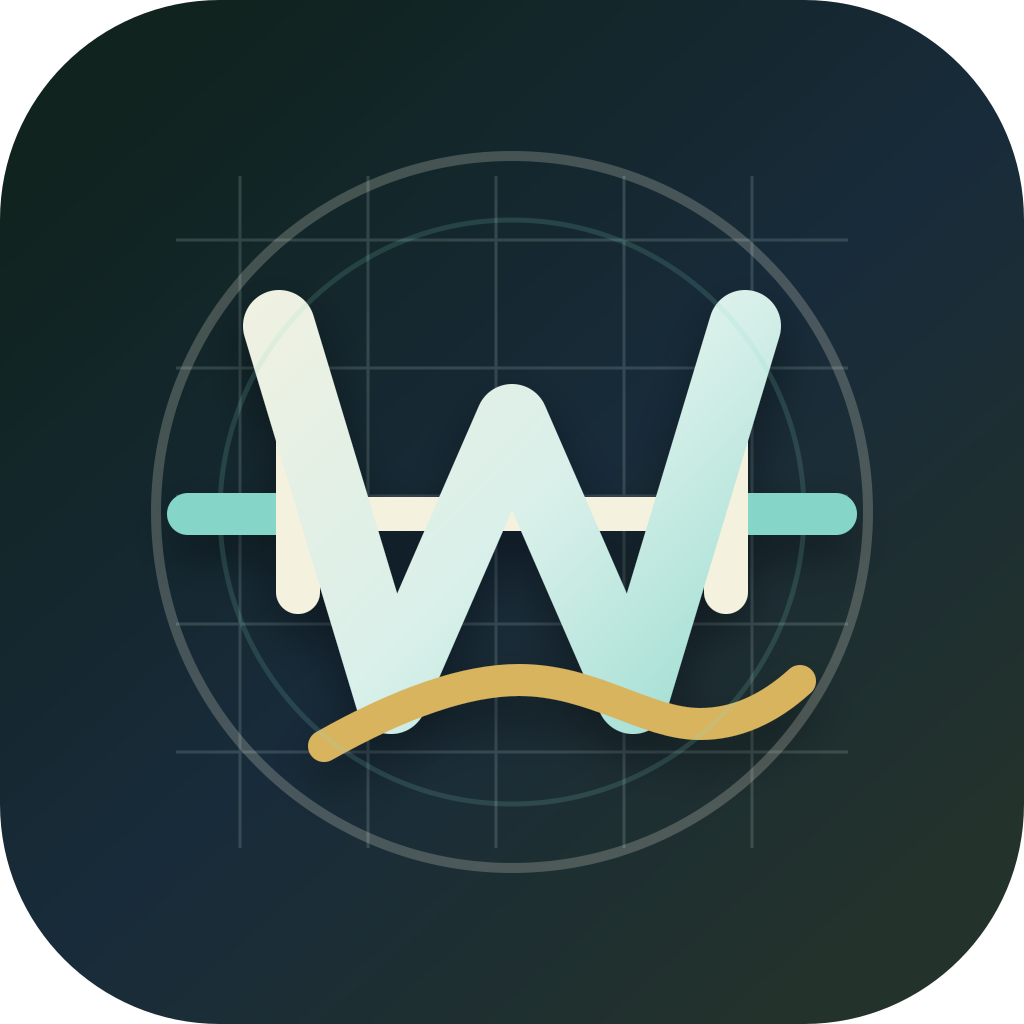
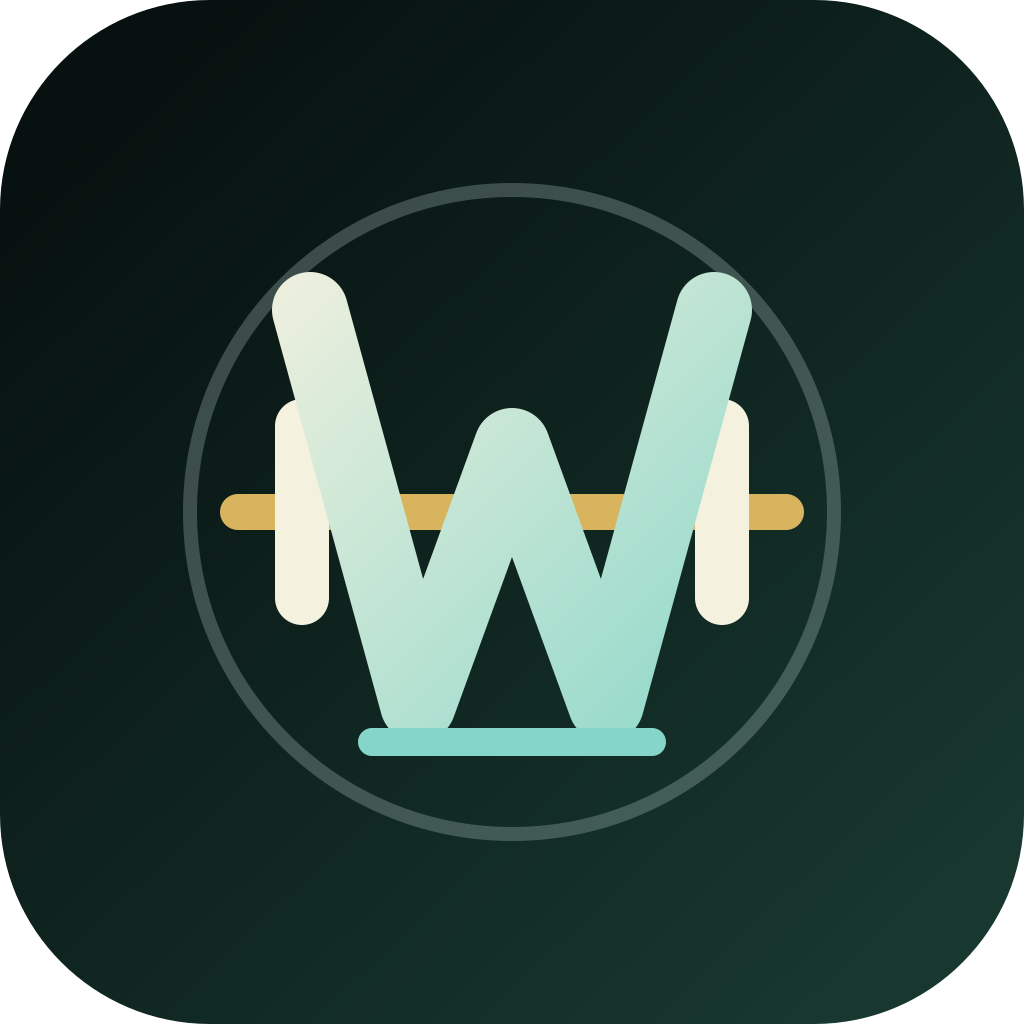
fix: anchor program week to current monday

diff --git a/src/App.tsx b/src/App.tsx
@@ -82,6 +82,7 @@ import {
   type ActiveExerciseReplacement,
   type ExerciseReplacementInput,
 } from './db/modificationQueries';
+import { getActiveProgramYearStart } from './db/programSeedRows';
 import { getAppSettings, saveAppSettings } from './db/settingsQueries';
 import {
   buildExportFiles,
@@ -124,6 +125,7 @@ import { programSeed } from './data/programSeed';
 import {
   createTrainingYear,
   formatProgramPosition,
+  getProgramWeekStart,
   getProgramPosition,
   type ProgramPosition,
 } from './domain/program/yearEngine';
@@ -290,15 +292,16 @@ export default function App() {
   const [scheduledNotifications, setScheduledNotifications] = useState<
     ScheduledNotificationItem[]
   >([]);
+  const [programStartDate, setProgramStartDate] = useState(() =>
+    getProgramWeekStart(new Date()),
+  );
   const [dbStatus, setDbStatus] = useState('Opening local database');
   const [setupRestoreJson, setSetupRestoreJson] = useState('');
   const [setupStatus, setSetupStatus] = useState('Program setup not completed');
   const trainingYear = useMemo(() => {
-    const now = new Date();
-    return createTrainingYear(
-      new Date(Date.UTC(now.getUTCFullYear(), 0, 1)),
-    );
-  }, []);
+    return createTrainingYear(programStartDate);
+  }, [programStartDate]);
+  styles = getStyles(appSettings.theme);
   const position = useMemo(
     () => getProgramPosition(new Date(), trainingYear),
     [trainingYear],
@@ -313,6 +316,7 @@ export default function App() {
     position.status === 'in_year' ? position.week.weekType : position.status;
   const refreshLocalData = async (database: TrainingDatabase) => {
     await markOverdueWorkoutsMissed(database);
+    setProgramStartDate(await getActiveProgramYearStart(database));
     setTodayInstance(await getTodayWorkoutInstance(database));
     setNextWorkoutInstance(await getNextWorkoutInstance(database));
     setLastCompletedWorkout(await getLastCompletedWorkout(database));
@@ -377,7 +381,7 @@ export default function App() {
   if (!appSettings.setupCompleted) {
     return (
       <SafeAreaView style={styles.safeArea}>
-        <StatusBar style="dark" />
+        <StatusBar style={appSettings.theme === 'scholar_dark' ? 'light' : 'dark'} />
         <View style={styles.shell}>
           <View style={styles.header}>
             <Text style={styles.appName}>Wali's Workout</Text>
@@ -447,7 +451,7 @@ export default function App() {
 
   return (
     <SafeAreaView style={styles.safeArea}>
-      <StatusBar style="dark" />
+      <StatusBar style={appSettings.theme === 'scholar_dark' ? 'light' : 'dark'} />
       <View style={styles.shell}>
         <View style={styles.header}>
           <Text style={styles.appName}>Wali's Workout</Text>
@@ -2784,9 +2788,24 @@ function LibrarySummary({
         <Text style={styles.setPrescription}>
           Calendar: {formatCalendarMode(appSettings.calendarMode)} - rest sound:{' '}
           {appSettings.restAlertSound ? 'on' : 'off'} - rest vibration:{' '}
-          {appSettings.restAlertVibration ? 'on' : 'off'}
+          {appSettings.restAlertVibration ? 'on' : 'off'} - theme:{' '}
+          {appSettings.theme === 'scholar_dark' ? 'dark' : 'light'}
         </Text>
         <View style={styles.actionRow}>
+          <Pressable
+            accessibilityRole="button"
+            onPress={() =>
+              void saveSettings({
+                theme:
+                  appSettings.theme === 'scholar_dark'
+                    ? 'scholar_light'
+                    : 'scholar_dark',
+              })
+            }
+            style={styles.secondaryButton}
+          >
+            <Text style={styles.secondaryButtonText}>Toggle Dark Mode</Text>
+          </Pressable>
           <Pressable
             accessibilityRole="button"
             onPress={() =>
@@ -3868,7 +3887,7 @@ function formatDuration(totalSeconds: number) {
   return `${minutes}:${String(seconds).padStart(2, '0')}`;
 }
 
-const styles = StyleSheet.create({
+const lightStyles = StyleSheet.create({
   safeArea: {
     flex: 1,
     backgroundColor: '#F8FAFC',
@@ -4304,3 +4323,79 @@ const styles = StyleSheet.create({
     marginTop: 16,
   },
 });
+
+const darkStyleOverrides = StyleSheet.create({
+  safeArea: { backgroundColor: '#07110F' },
+  shell: { backgroundColor: '#07110F' },
+  header: { backgroundColor: '#0D1B18', borderBottomColor: '#1F3A35' },
+  appName: { color: '#F5F1DF' },
+  dateText: { color: '#9CB5AD' },
+  positionCard: { backgroundColor: '#0D1B18', borderColor: '#2B4A43' },
+  meta: { color: '#85D6C8' },
+  positionTitle: { color: '#F8FAFC' },
+  eyebrow: { color: '#BCD0C8' },
+  panel: { backgroundColor: '#0D1B18', borderColor: '#1F3A35' },
+  sectionTitle: { color: '#E5EEE9' },
+  body: { color: '#BCD0C8' },
+  summaryBlock: { borderTopColor: '#1F3A35' },
+  summaryTitle: { color: '#F8FAFC' },
+  summaryText: { color: '#BCD0C8' },
+  warningText: { color: '#F0C56A' },
+  sessionPanel: { backgroundColor: '#10231F', borderColor: '#2B4A43' },
+  sessionTitle: { color: '#F8FAFC' },
+  baselineInput: {
+    backgroundColor: '#07110F',
+    borderColor: '#2B4A43',
+    color: '#F8FAFC',
+  },
+  noteInput: {
+    backgroundColor: '#07110F',
+    borderColor: '#2B4A43',
+    color: '#F8FAFC',
+  },
+  primaryButton: { backgroundColor: '#2A7C71' },
+  secondaryButton: {
+    backgroundColor: '#10231F',
+    borderColor: '#85D6C8',
+  },
+  selectedButton: { backgroundColor: '#1F3A35' },
+  secondaryButtonText: { color: '#D9F0EA' },
+  currentSetText: { color: '#BCD0C8' },
+  setRow: { borderLeftColor: '#85D6C8' },
+  setExercise: { color: '#F8FAFC' },
+  setPrescription: { color: '#9CB5AD' },
+  metric: { backgroundColor: '#0D1B18', borderColor: '#1F3A35' },
+  metricLabel: { color: '#9CB5AD' },
+  metricValue: { color: '#F8FAFC' },
+  tabBar: { backgroundColor: '#0D1B18', borderTopColor: '#1F3A35' },
+  activeTab: { borderTopColor: '#85D6C8' },
+  tabText: { color: '#9CB5AD' },
+  activeTabText: { color: '#D9F0EA' },
+  analyticsHeading: { color: '#D9F0EA' },
+  barLabel: { color: '#F8FAFC' },
+  barValue: { color: '#9CB5AD' },
+  barTrack: { backgroundColor: '#1F3A35' },
+  barFill: { backgroundColor: '#85D6C8' },
+  lineChart: { backgroundColor: '#07110F', borderColor: '#1F3A35' },
+  lineChartAxis: { backgroundColor: '#2B4A43' },
+  lineChartSegment: { backgroundColor: '#85D6C8' },
+  lineChartPoint: { backgroundColor: '#D8B45F', borderColor: '#07110F' },
+  compositionTrack: { backgroundColor: '#1F3A35' },
+  stackedTrack: { backgroundColor: '#1F3A35' },
+  plannedSegment: { backgroundColor: '#2B4A43' },
+  actualSegment: { backgroundColor: '#85D6C8' },
+  heatmapFigure: { backgroundColor: '#0D1B18', borderColor: '#2B4A43' },
+  heatmapTitle: { color: '#F8FAFC' },
+  heatmapEmpty: { color: '#9CB5AD' },
+});
+
+function getStyles(theme: AppSettings['theme']) {
+  if (theme !== 'scholar_dark') return lightStyles;
+  return new Proxy(lightStyles, {
+    get(target, key: keyof typeof lightStyles) {
+      return [target[key], darkStyleOverrides[key as keyof typeof darkStyleOverrides]];
+    },
+  }) as typeof lightStyles;
+}
+
+let styles = getStyles(defaultSettings.theme);

diff --git a/src/db/programSeedRows.ts b/src/db/programSeedRows.ts
@@ -1,4 +1,5 @@
 import { programSeed } from '../data/programSeed.ts';
+import { createTrainingYear, getProgramWeekStart } from '../domain/program/yearEngine.ts';
 import type { TrainingDatabase } from './database.ts';
 
 type ProgramSeed = typeof programSeed;
@@ -24,15 +25,87 @@ export async function ensureProgramSeeded(
 
   if ((row?.count ?? 0) > 0) return false;
 
-  const year = now.getUTCFullYear();
+  const startDate = getProgramWeekStart(now);
+  const trainingYear = createTrainingYear(startDate);
+  const year = startDate.slice(0, 4);
   await saveProgramSeedRows(db as TrainingDatabase, {
     programYearId: `training_year_${year}`,
     programName: 'Training Year',
-    startDate: `${year}-01-01`,
-    endDate: `${year}-12-31`,
+    startDate,
+    endDate: trainingYear.endDate,
     recordedAt: now.toISOString(),
   });
   return true;
+}
+
+export async function getActiveProgramYearStart(
+  db: Pick<TrainingDatabase, 'getFirstAsync'>,
+) {
+  const row = await db.getFirstAsync<{ startDate: string }>(
+    'SELECT start_date AS startDate FROM program_years WHERE is_active = 1 ORDER BY created_at DESC LIMIT 1',
+  );
+  return row?.startDate ?? getProgramWeekStart();
+}
+
+export async function realignUnusedProgramScheduleToCurrentWeek(
+  db: Pick<TrainingDatabase, 'execAsync' | 'getAllAsync' | 'getFirstAsync' | 'runAsync'>,
+  now = new Date(),
+) {
+  const desiredStartDate = getProgramWeekStart(now);
+  const currentStartDate = await getActiveProgramYearStart(db);
+  if (currentStartDate === desiredStartDate) return false;
+
+  const logCount = await db.getFirstAsync<{ count: number }>(
+    'SELECT COUNT(*) AS count FROM workout_logs',
+  );
+  if ((logCount?.count ?? 0) > 0) return false;
+
+  const rows = await db.getAllAsync<{
+    instanceId: string;
+    weekNumber: number;
+    scheduledWeekday: number;
+  }>(
+    `SELECT
+       wi.id AS instanceId,
+       pwk.week_number AS weekNumber,
+       pw.scheduled_weekday AS scheduledWeekday
+     FROM workout_instances wi
+     JOIN program_workouts pw ON pw.id = wi.program_workout_id
+     JOIN program_weeks pwk ON pwk.id = pw.program_week_id
+     WHERE pw.scheduled_weekday IS NOT NULL`,
+  );
+  const trainingYear = createTrainingYear(desiredStartDate);
+  const recordedAt = now.toISOString();
+
+  await db.execAsync('BEGIN TRANSACTION');
+  try {
+    await db.runAsync(
+      'UPDATE program_years SET start_date = ?, end_date = ?, updated_at = ? WHERE is_active = 1',
+      desiredStartDate,
+      trainingYear.endDate,
+      recordedAt,
+    );
+    for (const row of rows) {
+      await db.runAsync(
+        `UPDATE workout_instances
+         SET scheduled_date = ?,
+             actual_date = NULL,
+             status = 'scheduled',
+             was_shifted = 0,
+             shift_reason = NULL,
+             updated_at = ?
+         WHERE id = ?`,
+        addDays(desiredStartDate, (row.weekNumber - 1) * 7 + row.scheduledWeekday - 1),
+        recordedAt,
+        row.instanceId,
+      );
+    }
+    await db.execAsync('COMMIT');
+    return true;
+  } catch (error) {
+    await db.execAsync('ROLLBACK');
+    throw error;
+  }
 }
 
 export async function saveProgramSeedRows(

diff --git a/src/domain/program/yearEngine.ts b/src/domain/program/yearEngine.ts
@@ -39,6 +39,12 @@ export function createTrainingYear(startDate: Date | string): TrainingYear {
   };
 }
 
+export function getProgramWeekStart(date: Date | string = new Date()) {
+  const target = toUtcDateOnly(date);
+  const daysSinceMonday = (target.getUTCDay() + 6) % daysPerWeek;
+  return toIsoDate(addDays(target, -daysSinceMonday));
+}
+
 export function getProgramPosition(
   date: Date | string,
   trainingYear: TrainingYear,
@@ -82,9 +88,16 @@ export function formatProgramPosition(position: ProgramPosition) {
 }
 
 function toUtcDateOnly(date: Date | string) {
-  const value = typeof date === 'string' ? new Date(`${date}T00:00:00Z`) : date;
+  if (typeof date === 'string') {
+    const value = new Date(`${date.slice(0, 10)}T00:00:00Z`);
+    return new Date(
+      Date.UTC(value.getUTCFullYear(), value.getUTCMonth(), value.getUTCDate()),
+    );
+  }
+
+  const value = date;
   return new Date(
-    Date.UTC(value.getUTCFullYear(), value.getUTCMonth(), value.getUTCDate()),
+    Date.UTC(value.getFullYear(), value.getMonth(), value.getDate()),
   );
 }
 

diff --git a/src/db/database.ts b/src/db/database.ts
@@ -7,7 +7,10 @@ import {
   schemaVersion,
   type AppTable,
 } from './schema.ts';
-import { ensureProgramSeeded } from './programSeedRows.ts';
+import {
+  ensureProgramSeeded,
+  realignUnusedProgramScheduleToCurrentWeek,
+} from './programSeedRows.ts';
 
 export type TrainingDatabase = SQLite.SQLiteDatabase;
 
@@ -15,6 +18,7 @@ export async function openTrainingDatabase() {
   const db = await SQLite.openDatabaseAsync(databaseName);
   await migrateDatabase(db);
   await ensureProgramSeeded(db);
+  await realignUnusedProgramScheduleToCurrentWeek(db);
   return db;
 }
 

diff --git a/src/domain/settings/appSettings.ts b/src/domain/settings/appSettings.ts
@@ -1,5 +1,6 @@
 export type WeightUnit = 'kg' | 'lb';
 export type CalendarMode = 'program_week' | 'calendar_month';
+export type AppTheme = 'scholar_light' | 'scholar_dark';
 
 export type AppSettings = {
   preferredUnit: WeightUnit;
@@ -7,7 +8,7 @@ export type AppSettings = {
   plateIncrement: number;
   dumbbellIncrement: number;
   machineIncrement: number;
-  theme: 'scholar_light';
+  theme: AppTheme;
   setupCompleted: boolean;
   calendarMode: CalendarMode;
   restAlertSound: boolean;
@@ -32,6 +33,9 @@ export function normalizeSettings(settings: Partial<AppSettings>): AppSettings {
   merged.setupCompleted = Boolean(merged.setupCompleted);
   merged.restAlertSound = Boolean(merged.restAlertSound);
   merged.restAlertVibration = Boolean(merged.restAlertVibration);
+  if (!['scholar_light', 'scholar_dark'].includes(merged.theme)) {
+    merged.theme = defaultSettings.theme;
+  }
   if (!['program_week', 'calendar_month'].includes(merged.calendarMode)) {
     merged.calendarMode = defaultSettings.calendarMode;
   }

diff --git a/src/domain/program/seedResolver.ts b/src/domain/program/seedResolver.ts
@@ -51,6 +51,10 @@ export function getDueWorkout(position: ProgramPosition): DueWorkout {
   }
 
   const { week } = position;
+  if (position.dayOfWeek === 7) {
+    return { status: 'rest_day', nextWorkout: null };
+  }
+
   if (week.isBuffer || !week.phaseCode || !week.phaseWeekNumber) {
     return { status: 'buffer_week' };
   }